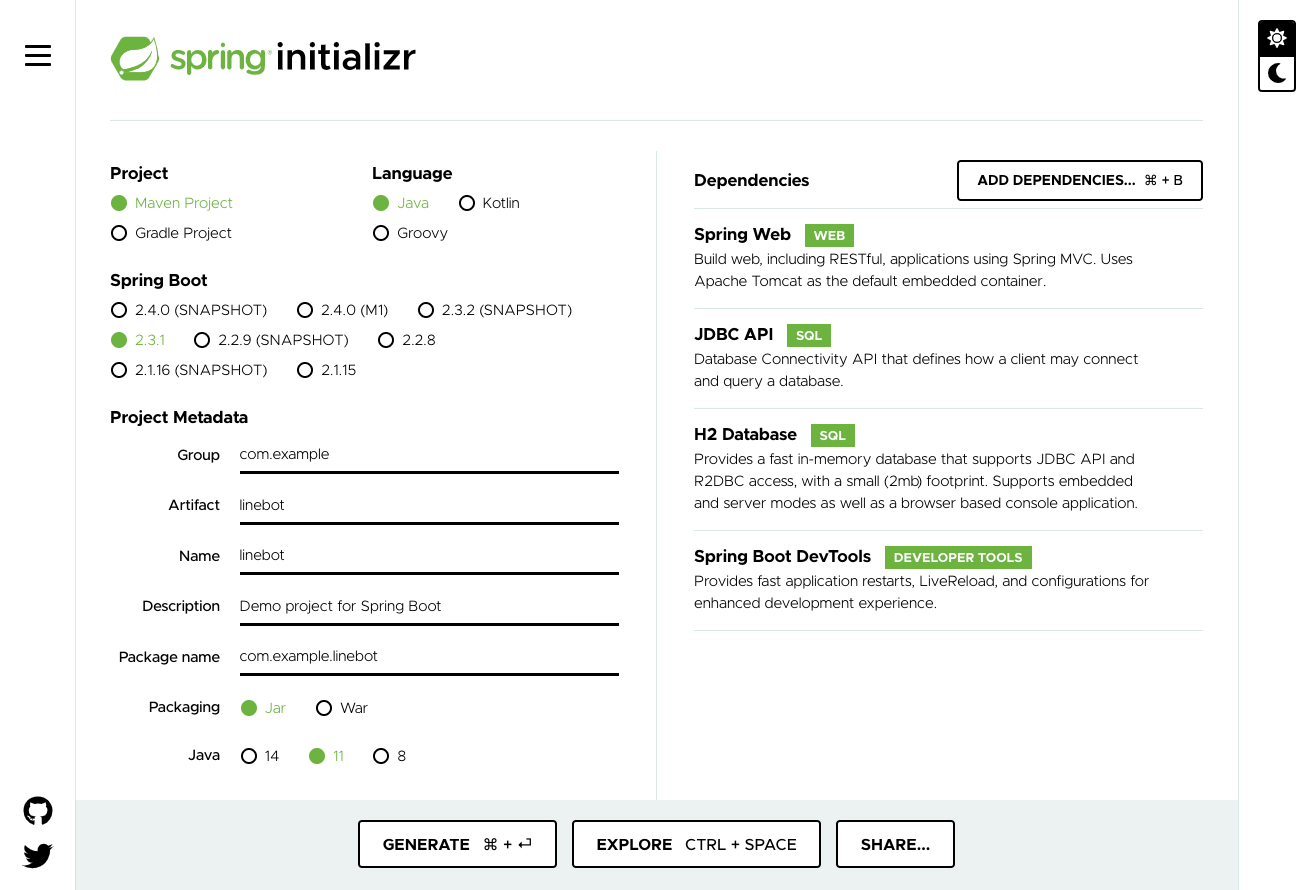
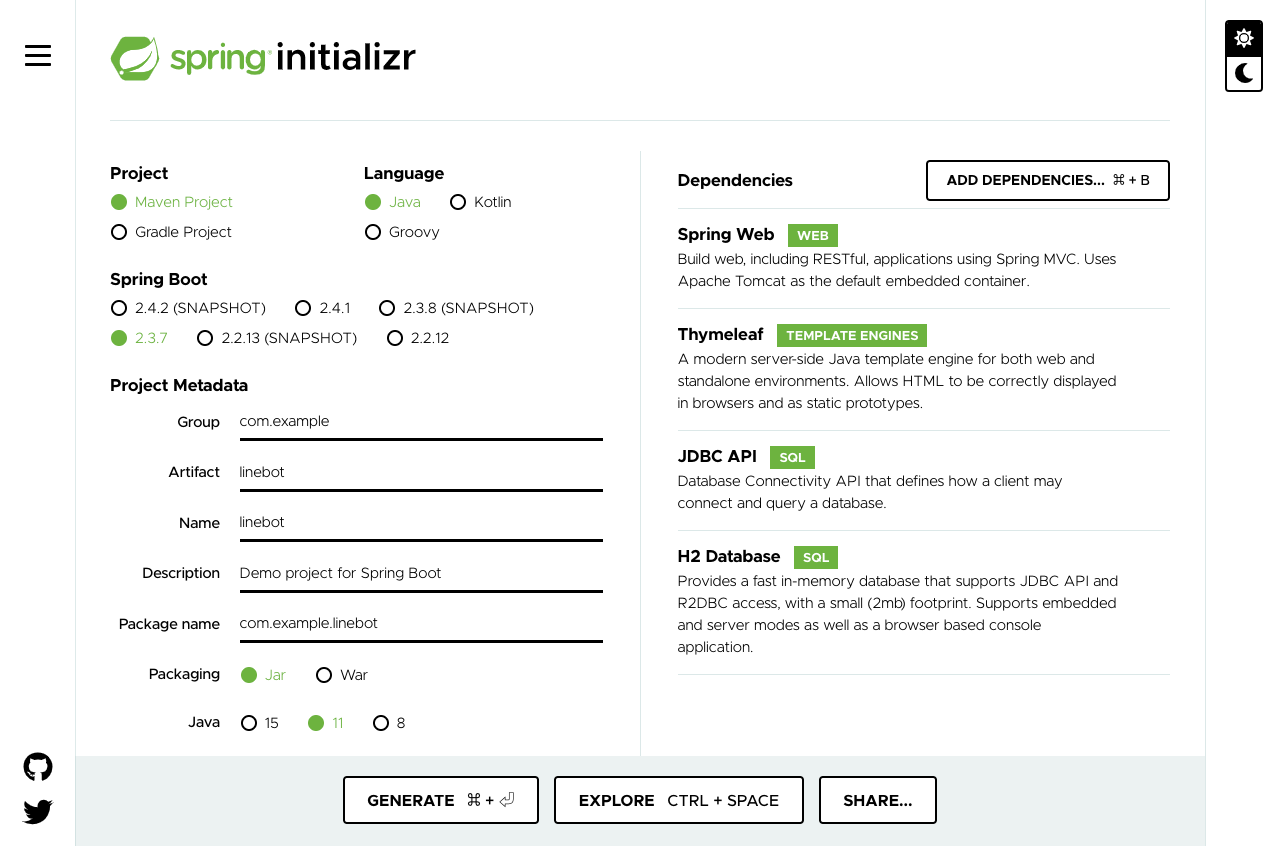
Bump Spring Boot 2.3.6 to 2.3.6 to 2.3.7

diff --git a/doc/Settings/02.md b/doc/Settings/02.md
@@ -6,7 +6,7 @@ https://start.spring.io/ をブラウザ開く。
 
 - **Project** を `Maven Project` にする
 - **Language** を `Java` にする
-- **Spring Boot** を `2.3.6` にする
+- **Spring Boot** を `2.3.7` にする
 - **Artifact** を `linebot` にする
 - **Java** を `11` にする
 - **Packaging** を `jar` にする

diff --git a/README.md b/README.md
@@ -9,8 +9,9 @@
 - Maven 3.6.3 
 - IntelliJ 2020.2.4
 - ngrok 2.3.35
+- Spring Boot 2.3.7
 - line-bot-sdk-java 4.3.0
-- Spring Boot 2.3.6
+
 
 ## 前準備
 
